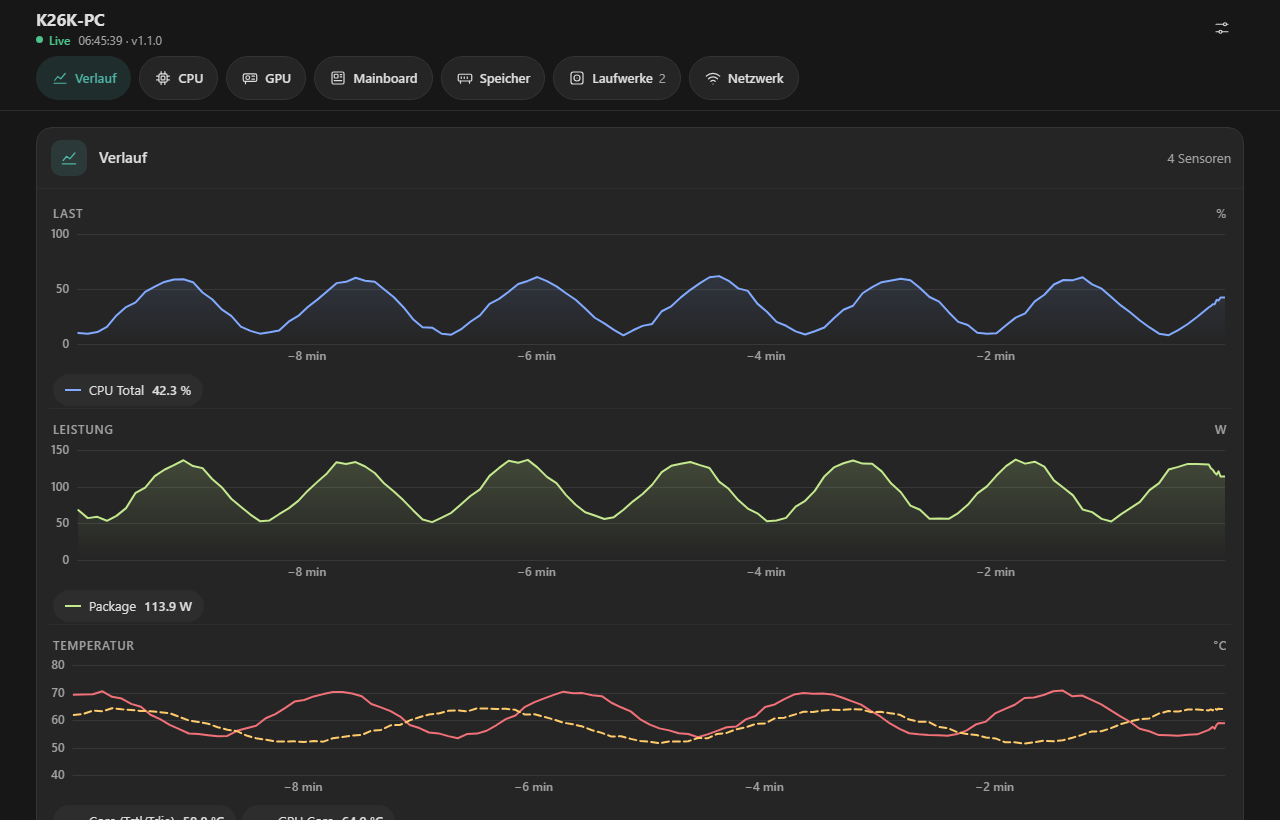
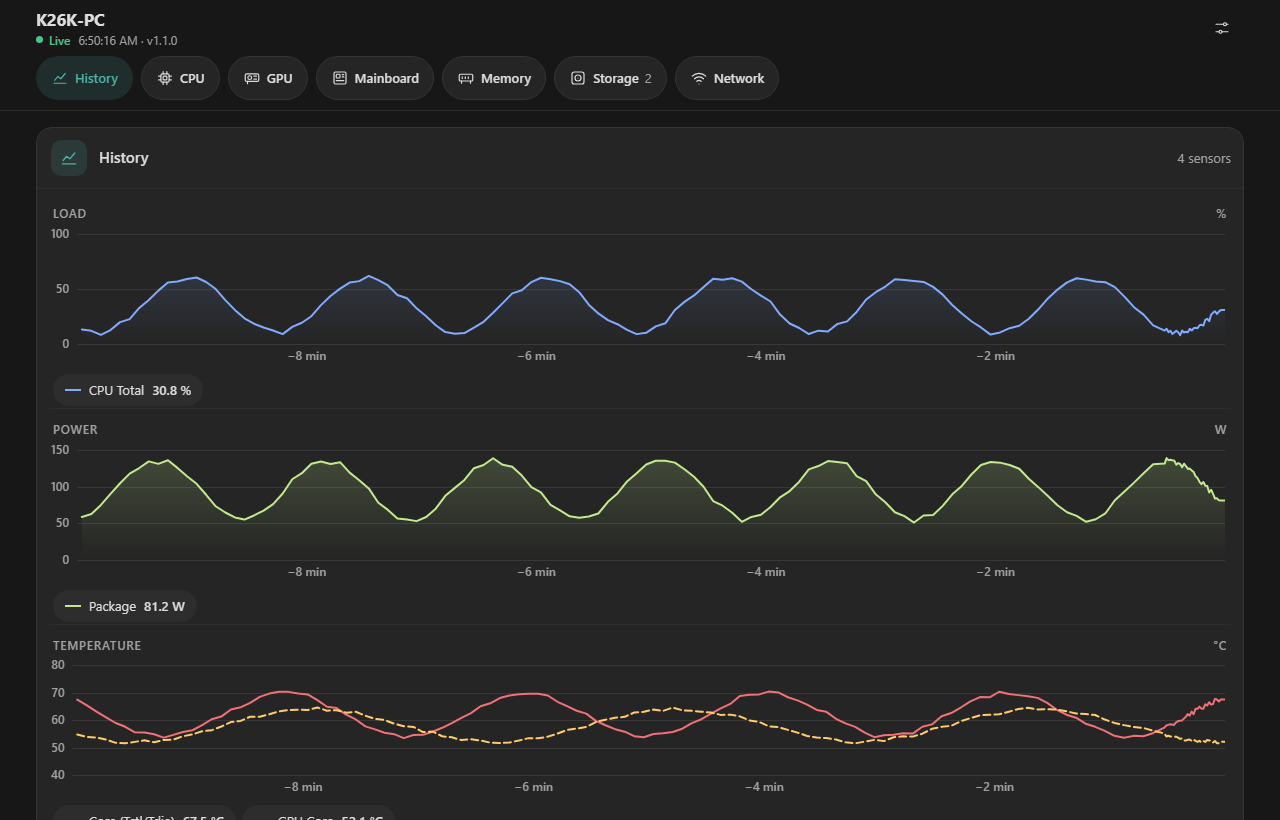
Web UI: English and German, switchable, English by default
- All texts of the web interface come from an English/German table
- Language switch in the view menu; the choice is stored in the browser
- English is the default for new visitors
- README: mention the language switch, screenshots now show the English UI

diff --git a/LibreHardwareMonitor.Windows.Forms/Resources/Web/app.js b/LibreHardwareMonitor.Windows.Forms/Resources/Web/app.js
@@ -105,37 +105,93 @@
     return '<svg class="i" viewBox="0 0 24 24" aria-hidden="true">' + (ICONS[name] || CHIP) + '</svg>';
   }
 
+  // ---------- languages (English is the default, the choice is kept in this browser) ----------
+
+  const I18N = {
+    en: {
+      locale: 'en-US',
+      connecting: 'Connecting', live: 'Live', disconnected: 'Disconnected', since: 'since {0}',
+      menuButton: 'View and search', jumpNav: 'Jump to hardware', panel: 'View',
+      language: 'Language', search: 'Search', searchPlaceholder: 'Sensor or hardware',
+      timeSpan: 'Chart time span', spanDesktop: 'Desktop', spanDesktopTitle: 'Use the time span of the desktop plot',
+      expandAll: 'Expand all', collapseAll: 'Collapse all', resetLocal: 'Same as desktop',
+      classic: 'Classic view', source: 'Source code (AGPL-3.0)',
+      history: 'History', sensor: 'sensor', sensors: 'sensors', inDesktopPlot: 'In the desktop plot',
+      warning: 'Warning', critical: 'Critical', now: 'now', noSensors: 'No visible sensors.',
+      mirror: 'Taken over from the desktop: theme "{0}", °{1}, columns {2}, hidden sensors {3}, plot {4}, update every {5} s.',
+      none: 'none', shown: 'shown', hiddenState: 'hidden', on: 'on', off: 'off',
+      colValue: 'Value', colMin: 'Min', colMax: 'Max',
+      categories: { cpu: 'CPU', gpu: 'GPU', board: 'Mainboard', ram: 'Memory', disk: 'Storage', net: 'Network', cool: 'Cooling', power: 'Power' },
+      types: {
+        Voltage: 'Voltage', Current: 'Current', Clock: 'Clock', Load: 'Load', Temperature: 'Temperature',
+        Fan: 'Fan', Flow: 'Flow', Control: 'Control', Level: 'Level', Power: 'Power', Data: 'Data', SmallData: 'Data',
+        Throughput: 'Throughput', Frequency: 'Frequency', Energy: 'Energy', Noise: 'Noise', Humidity: 'Humidity',
+        Factor: 'Factor', Timing: 'Timing', TimeSpan: 'Time', Conductivity: 'Conductivity'
+      }
+    },
+    de: {
+      locale: 'de-DE',
+      connecting: 'Verbinde', live: 'Live', disconnected: 'Getrennt', since: 'seit {0}',
+      menuButton: 'Ansicht und Suche', jumpNav: 'Zu Hardware springen', panel: 'Ansicht',
+      language: 'Sprache', search: 'Suche', searchPlaceholder: 'Sensor oder Hardware',
+      timeSpan: 'Zeitraum der Kurven', spanDesktop: 'Desktop', spanDesktopTitle: 'Zeitraum aus dem Desktop-Plot übernehmen',
+      expandAll: 'Alle aufklappen', collapseAll: 'Alle zuklappen', resetLocal: 'Wie am Desktop',
+      classic: 'Klassische Ansicht', source: 'Quellcode (AGPL-3.0)',
+      history: 'Verlauf', sensor: 'Sensor', sensors: 'Sensoren', inDesktopPlot: 'Im Desktop-Verlauf',
+      warning: 'Warnung', critical: 'Kritisch', now: 'jetzt', noSensors: 'Keine Sensoren sichtbar.',
+      mirror: 'Vom Desktop übernommen: Design „{0}“, °{1}, Spalten {2}, ausgeblendete Sensoren {3}, Verlauf {4}, Aktualisierung alle {5} s.',
+      none: 'keine', shown: 'sichtbar', hiddenState: 'versteckt', on: 'an', off: 'aus',
+      colValue: 'Wert', colMin: 'Min', colMax: 'Max',
+      categories: { cpu: 'CPU', gpu: 'GPU', board: 'Mainboard', ram: 'Speicher', disk: 'Laufwerke', net: 'Netzwerk', cool: 'Kühlung', power: 'Energie' },
+      types: {
+        Voltage: 'Spannung', Current: 'Strom', Clock: 'Takt', Load: 'Last', Temperature: 'Temperatur',
+        Fan: 'Lüfter', Flow: 'Durchfluss', Control: 'Steuerung', Level: 'Füllstand', Power: 'Leistung', Data: 'Daten', SmallData: 'Daten',
+        Throughput: 'Durchsatz', Frequency: 'Frequenz', Energy: 'Energie', Noise: 'Lautstärke', Humidity: 'Feuchte',
+        Factor: 'Faktor', Timing: 'Timing', TimeSpan: 'Zeit', Conductivity: 'Leitfähigkeit'
+      }
+    }
+  };
+
+  const LANGUAGES = [{ id: 'en', label: 'English' }, { id: 'de', label: 'Deutsch' }];
+  let lang = I18N[load('k26k.lang', 'en')] ? load('k26k.lang', 'en') : 'en';
+
+  // t('since', '12:00') -> "since 12:00"
+  function t(key, ...args) {
+    const text = I18N[lang][key] !== undefined ? I18N[lang][key] : I18N.en[key];
+    return typeof text === 'string' ? text.replace(/\{(\d)\}/g, (m, i) => args[i] !== undefined ? args[i] : m) : text;
+  }
+
+  // Texts in index.html are marked with data-i18n, data-i18n-placeholder and data-i18n-aria-label.
+  function applyStaticTexts() {
+    document.documentElement.lang = lang;
+    for (const e of document.querySelectorAll('[data-i18n]')) e.textContent = t(e.dataset.i18n);
+    for (const e of document.querySelectorAll('[data-i18n-placeholder]')) e.placeholder = t(e.dataset.i18nPlaceholder);
+    for (const e of document.querySelectorAll('[data-i18n-aria-label]')) e.setAttribute('aria-label', t(e.dataset.i18nAriaLabel));
+  }
+
   // Groups for the jump bar at the top.
   const CATEGORIES = [
-    { id: 'cpu', label: 'CPU', icon: 'Cpu', types: ['Cpu'] },
-    { id: 'gpu', label: 'GPU', icon: 'Gpu', types: ['GpuNvidia', 'GpuAmd', 'GpuIntel'] },
-    { id: 'board', label: 'Mainboard', icon: 'Motherboard', types: ['Motherboard', 'SuperIO', 'EmbeddedController'] },
-    { id: 'ram', label: 'Speicher', icon: 'Memory', types: ['Memory'] },
-    { id: 'disk', label: 'Laufwerke', icon: 'Storage', types: ['Storage'] },
-    { id: 'net', label: 'Netzwerk', icon: 'Network', types: ['Network'] },
-    { id: 'cool', label: 'Kühlung', icon: 'Cooler', types: ['Cooler'] },
-    { id: 'power', label: 'Energie', icon: 'Power', types: ['Psu', 'Battery', 'PowerMonitor'] }
+    { id: 'cpu', icon: 'Cpu', types: ['Cpu'] },
+    { id: 'gpu', icon: 'Gpu', types: ['GpuNvidia', 'GpuAmd', 'GpuIntel'] },
+    { id: 'board', icon: 'Motherboard', types: ['Motherboard', 'SuperIO', 'EmbeddedController'] },
+    { id: 'ram', icon: 'Memory', types: ['Memory'] },
+    { id: 'disk', icon: 'Storage', types: ['Storage'] },
+    { id: 'net', icon: 'Network', types: ['Network'] },
+    { id: 'cool', icon: 'Cooler', types: ['Cooler'] },
+    { id: 'power', icon: 'Power', types: ['Psu', 'Battery', 'PowerMonitor'] }
   ];
 
   const SPANS = [
-    { s: 0, label: 'Desktop' }, { s: 60, label: '1 min' }, { s: 300, label: '5 min' },
+    { s: 0, label: null }, { s: 60, label: '1 min' }, { s: 300, label: '5 min' },
     { s: 600, label: '10 min' }, { s: 1800, label: '30 min' }, { s: 3600, label: '1 h' },
     { s: 6 * 3600, label: '6 h' }, { s: 24 * 3600, label: '24 h' }
   ];
-
-  const TYPE_TITLES = {
-    Voltage: 'Spannung', Current: 'Strom', Clock: 'Takt', Load: 'Last', Temperature: 'Temperatur',
-    Fan: 'Lüfter', Flow: 'Durchfluss', Control: 'Steuerung', Level: 'Füllstand', Power: 'Leistung',
-    Data: 'Daten', SmallData: 'Daten', Throughput: 'Durchsatz', Frequency: 'Frequenz', Energy: 'Energie',
-    Noise: 'Lautstärke', Humidity: 'Feuchte', Factor: 'Faktor', Timing: 'Timing', TimeSpan: 'Zeit',
-    Conductivity: 'Leitfähigkeit'
-  };
 
   // Line styles so that curves can be told apart without color.
   const DASHES = [[], [7, 4], [1.5, 4], [10, 3, 2, 3]];
 
   function formatNumber(v, unit) {
-    if (v === null || v === undefined || !isFinite(v)) return '–';
+    if (v === null || v === undefined || !isFinite(v)) return '-';
     const a = Math.abs(v);
     if (unit === 'B/s') {
       if (a >= 1073741824) return (v / 1073741824).toFixed(1) + ' GB/s';
@@ -155,7 +211,7 @@
   }
 
   function formatAgo(seconds) {
-    if (seconds < 1) return 'jetzt';
+    if (seconds < 1) return t('now');
     if (seconds < 120) return '−' + Math.round(seconds) + ' s';
     if (seconds < 7200) return '−' + Math.round(seconds / 60) + ' min';
     return '−' + (seconds / 3600).toFixed(seconds < 36000 ? 1 : 0).replace('.0', '') + ' h';
@@ -459,7 +515,7 @@
     const dot = el('span', 'dot');
     if (s.plot && s.color) {
       dot.style.background = colorFor(s);
-      dot.title = 'Im Desktop-Verlauf';
+      dot.title = t('inDesktopPlot');
     }
     row.appendChild(dot);
     row.appendChild(el('span', 'sensor-name', s.name));
@@ -552,7 +608,7 @@
       const [num, unit] = splitUnit(s.text.value);
       const level = temperatureLevel(s) || loadLevel(s);
       // warnings are shown with a symbol as well, not by color alone
-      const valueHtml = (level ? '<svg class="i alert" viewBox="0 0 24 24" aria-label="' + (level === 'crit' ? 'Kritisch' : 'Warnung') +
+      const valueHtml = (level ? '<svg class="i alert" viewBox="0 0 24 24" aria-label="' + (level === 'crit' ? t('critical') : t('warning')) +
         '"><path d="M12 4 2.5 20h19L12 4Z"/><path d="M12 10v4M12 17h.01"/></svg>' : '') +
         escapeHtml(num) + (unit ? '<span class="unit">' + escapeHtml(unit) + '</span>' : '');
       if (valueHtml !== entry.lastValue) { entry.value.innerHTML = valueHtml; entry.lastValue = valueHtml; }
@@ -580,7 +636,7 @@
         return '<span class="kv" title="' + escapeHtml(s.name) + '">' + icon(TYPE_ICON[s.sensorType]) +
           '<b>' + escapeHtml(num) + '</b>' + escapeHtml(unit) + '</span>';
       });
-      const html = parts.join('') + '<span class="expanded-only">' + sum.count + (sum.count === 1 ? ' Sensor' : ' Sensoren') + '</span>';
+      const html = parts.join('') + '<span class="expanded-only">' + sum.count + ' ' + (sum.count === 1 ? t('sensor') : t('sensors')) + '</span>';
       if (sum.html !== html) { sum.el.innerHTML = html; sum.html = html; }
     }
   }
@@ -601,7 +657,7 @@
   function updateEmpty() {
     const empty = $('empty');
     empty.hidden = $('tree').children.length > 0;
-    empty.textContent = 'Keine Sensoren sichtbar.';
+    empty.textContent = t('noSensors');
   }
 
   // ---------- masonry ----------
@@ -631,12 +687,12 @@
     const bar = $('jumpbar');
     bar.textContent = '';
 
-    if (!$('plotCard').hidden) bar.appendChild(jumpPill('Verlauf', 'Chart', 0, [$('plotCard')]));
+    if (!$('plotCard').hidden) bar.appendChild(jumpPill(t('history'), 'Chart', 0, [$('plotCard')]));
 
     const cards = Array.from($('tree').children);
     for (const cat of CATEGORIES) {
       const matches = cards.filter((c) => cat.types.includes(c.dataset.type));
-      if (matches.length) bar.appendChild(jumpPill(cat.label, cat.icon, matches.length, matches));
+      if (matches.length) bar.appendChild(jumpPill(t('categories')[cat.id], cat.icon, matches.length, matches));
     }
     bar.hidden = bar.children.length < 2;
     updateJumpFade();
@@ -702,7 +758,7 @@
     card.hidden = !(plot.visible && sensors.length);
     if (card.hidden) return;
 
-    $('plotMeta').textContent = sensors.length + (sensors.length === 1 ? ' Sensor' : ' Sensoren');
+    $('plotMeta').textContent = sensors.length + ' ' + (sensors.length === 1 ? t('sensor') : t('sensors'));
 
     if (plot.stacked) {
       // one chart per sensor type, in the same top-to-bottom order as the desktop
@@ -714,7 +770,7 @@
       for (const [type, list] of byType) {
         const section = el('div', 'plot-section');
         const title = el('div', 'chart-title');
-        title.appendChild(el('span', '', TYPE_TITLES[type] || type));
+        title.appendChild(el('span', '', t('types')[type] || type));
         title.appendChild(el('span', '', list[0].unit || ''));
         section.appendChild(title);
         box.appendChild(section);
@@ -1006,10 +1062,10 @@
     const box = $('spanChips');
     box.textContent = '';
     for (const sp of SPANS) {
-      const b = el('button', S.span === sp.s ? 'active' : '', sp.label);
+      const b = el('button', S.span === sp.s ? 'active' : '', sp.label || t('spanDesktop'));
       b.type = 'button';
       b.setAttribute('aria-pressed', String(S.span === sp.s));
-      if (sp.s === 0) b.title = 'Zeitraum aus dem Desktop-Plot übernehmen';
+      if (sp.s === 0) b.title = t('spanDesktopTitle');
       b.addEventListener('click', () => {
         S.span = sp.s;
         save('k26k.span', S.span);
@@ -1022,10 +1078,39 @@
 
   function renderMirrorInfo() {
     const st = settings();
-    const cols = ['value', 'min', 'max'].filter((c) => st.columns[c]).map((c) => ({ value: 'Wert', min: 'Min', max: 'Max' })[c]);
-    $('mirrorInfo').textContent = 'Vom Desktop übernommen: Design „' + (st.theme ? st.theme.name : '?') + '“, °' + st.temperatureUnit +
-      ', Spalten ' + (cols.join(' / ') || 'keine') + ', ausgeblendete Sensoren ' + (st.showHidden ? 'sichtbar' : 'versteckt') +
-      ', Verlauf ' + (st.plot.visible ? 'an' : 'aus') + ', Aktualisierung alle ' + (st.updateInterval / 1000).toLocaleString() + ' s.';
+    const cols = ['value', 'min', 'max'].filter((c) => st.columns[c]).map((c) => t({ value: 'colValue', min: 'colMin', max: 'colMax' }[c]));
+    $('mirrorInfo').textContent = t('mirror',
+      st.theme ? st.theme.name : '?',
+      st.temperatureUnit,
+      cols.join(' / ') || t('none'),
+      st.showHidden ? t('shown') : t('hiddenState'),
+      st.plot.visible ? t('on') : t('off'),
+      (st.updateInterval / 1000).toLocaleString(t('locale')));
+  }
+
+  function renderLanguageChips() {
+    const box = $('langChips');
+    box.textContent = '';
+    for (const l of LANGUAGES) {
+      const b = el('button', lang === l.id ? 'active' : '', l.label);
+      b.type = 'button';
+      b.lang = l.id;
+      b.setAttribute('aria-pressed', String(lang === l.id));
+      b.addEventListener('click', () => setLanguage(l.id));
+      box.appendChild(b);
+    }
+  }
+
+  function setLanguage(id) {
+    if (!I18N[id] || id === lang) return;
+    lang = id;
+    save('k26k.lang', id);
+    applyStaticTexts();
+    renderLanguageChips();
+    renderSpanChips();
+    renderMirrorInfo();
+    if (S.state) { render(); S.signature = structureSignature(S.state); }
+    setStatus(S.failures === 0 && S.lastOk > 0);
   }
 
   function setAllCollapsed(collapsed) {
@@ -1064,6 +1149,8 @@
       if (S.state) { render(); S.signature = structureSignature(S.state); }
       fetchHistory();
     });
+    applyStaticTexts();
+    renderLanguageChips();
     renderSpanChips();
   }
 
@@ -1144,12 +1231,12 @@
     const status = $('status');
     status.classList.toggle('ok', ok);
     status.classList.toggle('bad', !ok);
-    status.textContent = ok ? 'Live' : 'Getrennt';
+    status.textContent = ok ? t('live') : t('disconnected');
     const sub = $('subtitle');
     if (ok) {
-      sub.textContent = new Date().toLocaleTimeString() + (S.state ? ' · v' + S.state.version : '');
+      sub.textContent = new Date().toLocaleTimeString(t('locale')) + (S.state ? ' · v' + S.state.version : '');
     } else {
-      sub.textContent = (S.lastOk ? 'seit ' + new Date(S.lastOk).toLocaleTimeString() : '') + (message ? ' · ' + message : '');
+      sub.textContent = (S.lastOk ? t('since', new Date(S.lastOk).toLocaleTimeString(t('locale'))) : '') + (message ? ' · ' + message : '');
     }
   }
 

diff --git a/LibreHardwareMonitor.Windows.Forms/Resources/Web/index.html b/LibreHardwareMonitor.Windows.Forms/Resources/Web/index.html
@@ -4,7 +4,7 @@
   Copyright (C) 2026 K26K Hardware Monitor contributors
   Licensed under the GNU Affero General Public License v3.0 or later, see LICENSE.
 -->
-<html lang="de">
+<html lang="en">
 <head>
   <meta charset="utf-8">
   <meta name="viewport" content="width=device-width, initial-scale=1, viewport-fit=cover">
@@ -25,39 +25,43 @@
       <div class="title-text">
         <h1 id="machine">K26K Hardware Monitor</h1>
         <div class="subtitle">
-          <span class="status" id="status">Verbinde</span>
+          <span class="status" id="status" data-i18n="connecting">Connecting</span>
           <span id="subtitle"></span>
         </div>
       </div>
-      <button class="icon-btn" id="menuBtn" type="button" aria-label="Ansicht und Suche" aria-expanded="false" aria-controls="menu">
+      <button class="icon-btn" id="menuBtn" type="button" aria-label="View and search" data-i18n-aria-label="menuButton" aria-expanded="false" aria-controls="menu">
         <svg class="i" viewBox="0 0 24 24" aria-hidden="true"><path d="M4 7h10M18 7h2M4 17h4M12 17h8"/><circle cx="16" cy="7" r="2"/><circle cx="10" cy="17" r="2"/></svg>
       </button>
     </div>
-    <nav class="jumpbar" id="jumpbar" aria-label="Zu Hardware springen"></nav>
+    <nav class="jumpbar" id="jumpbar" aria-label="Jump to hardware" data-i18n-aria-label="jumpNav"></nav>
   </header>
 
-  <section class="panel" id="menu" hidden aria-label="Ansicht">
+  <section class="panel" id="menu" hidden aria-label="View" data-i18n-aria-label="panel">
     <div class="field">
-      <label class="field-label" for="filter">Suche</label>
+      <label class="field-label" for="filter" data-i18n="search">Search</label>
       <div class="search">
         <svg class="i" viewBox="0 0 24 24" aria-hidden="true"><circle cx="11" cy="11" r="6.5"/><path d="M16 16l4 4"/></svg>
-        <input type="search" id="filter" placeholder="Sensor oder Hardware" autocomplete="off">
+        <input type="search" id="filter" placeholder="Sensor or hardware" data-i18n-placeholder="searchPlaceholder" autocomplete="off">
       </div>
     </div>
     <div class="field">
-      <span class="field-label" id="spanLabel">Zeitraum der Kurven</span>
+      <span class="field-label" id="spanLabel" data-i18n="timeSpan">Chart time span</span>
       <div class="segmented" id="spanChips" role="group" aria-labelledby="spanLabel"></div>
     </div>
+    <div class="field">
+      <span class="field-label" id="langLabel" data-i18n="language">Language</span>
+      <div class="segmented" id="langChips" role="group" aria-labelledby="langLabel"></div>
+    </div>
     <div class="actions">
-      <button class="btn" id="expandAll" type="button">Alle aufklappen</button>
-      <button class="btn" id="collapseAll" type="button">Alle zuklappen</button>
-      <button class="btn" id="resetLocal" type="button">Wie am Desktop</button>
+      <button class="btn" id="expandAll" type="button" data-i18n="expandAll">Expand all</button>
+      <button class="btn" id="collapseAll" type="button" data-i18n="collapseAll">Collapse all</button>
+      <button class="btn" id="resetLocal" type="button" data-i18n="resetLocal">Same as desktop</button>
     </div>
     <p class="note" id="mirrorInfo"></p>
     <div class="links">
-      <a href="classic.html">Klassische Ansicht</a>
+      <a href="classic.html" data-i18n="classic">Classic view</a>
       <a href="data.json" target="_blank" rel="noopener">data.json</a>
-      <a href="https://github.com/unikum-sol/K26K-Hardware-Monitor" target="_blank" rel="noopener">Quellcode (AGPL-3.0)</a>
+      <a href="https://github.com/unikum-sol/K26K-Hardware-Monitor" target="_blank" rel="noopener" data-i18n="source">Source code (AGPL-3.0)</a>
     </div>
   </section>
 
@@ -65,7 +69,7 @@
     <section class="card plot-card" id="plotCard" hidden>
       <div class="card-head static">
         <span class="tile"><svg class="i" viewBox="0 0 24 24" aria-hidden="true"><path d="M4 19h16M5 15l4-5 4 3 6-7"/></svg></span>
-        <span class="head-text"><span class="card-title">Verlauf</span></span>
+        <span class="head-text"><span class="card-title" data-i18n="history">History</span></span>
         <span class="card-meta" id="plotMeta"></span>
       </div>
       <div id="plotCharts"></div>

diff --git a/README.md b/README.md
@@ -13,6 +13,7 @@ of a phone, tablet or another PC, with the same settings you configured in the d
   - Tap a sensor to open **its own chart**; tap or drag inside a chart to read the values at that moment
   - Chart time span from 1 min to 24 h, or the same as the desktop plot
   - Search/filter, expand/collapse, can be added to the home screen as an app
+  - English and German interface, switchable in the view menu; English by default, the choice is remembered in the browser
   - Light and dark mode derived from the desktop theme, WCAG-oriented contrast, line styles in addition to colors
 
   <p>
